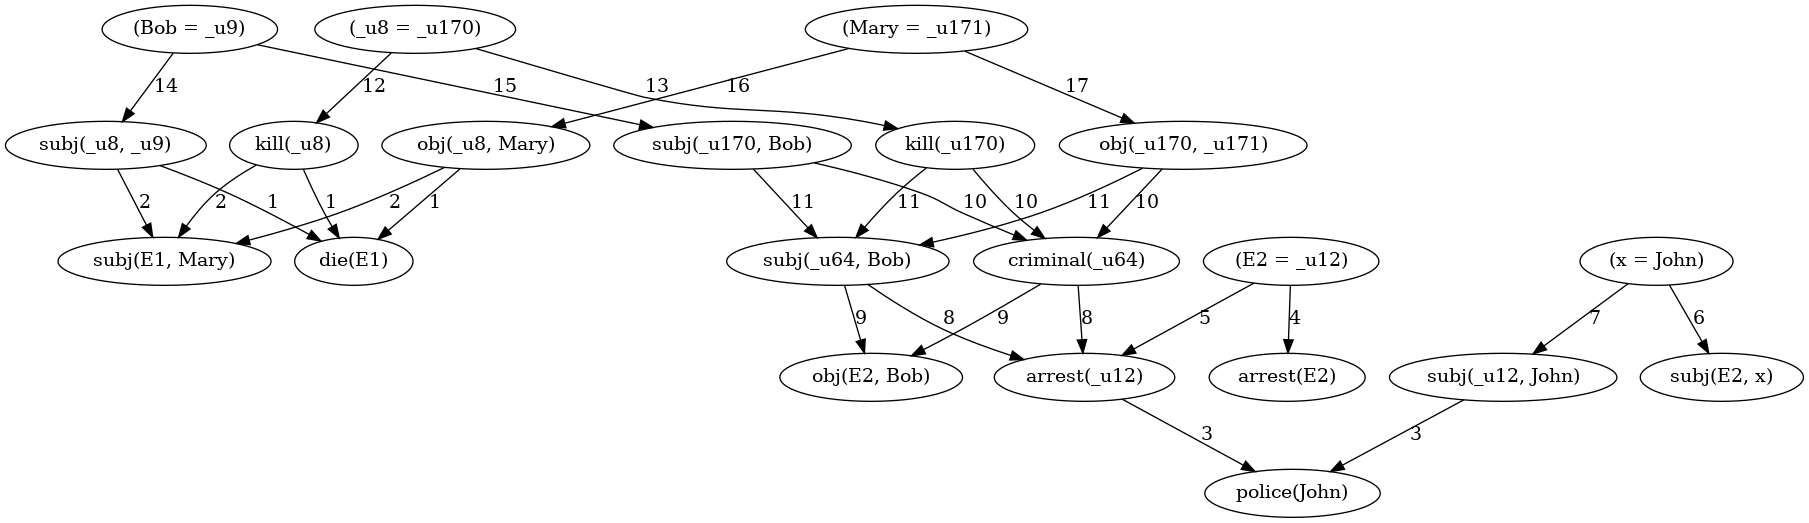
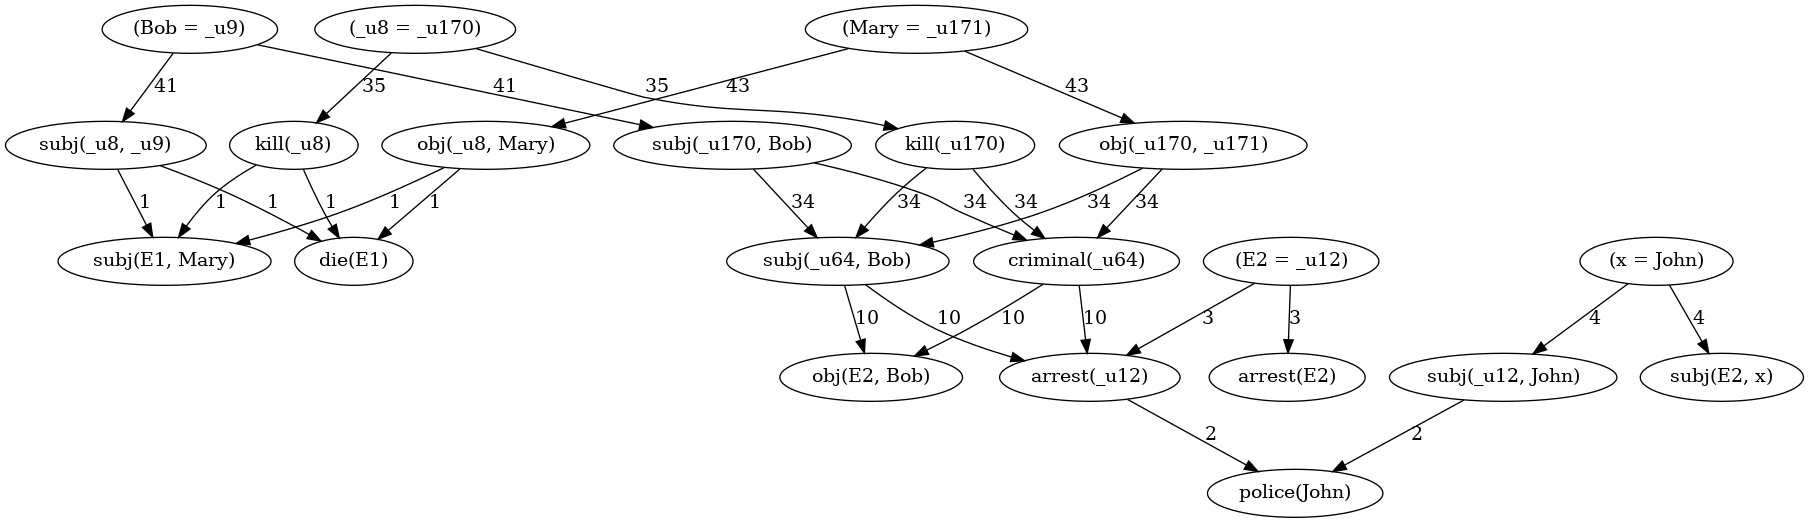
update

diff --git a/pydavid/pydavid.py b/pydavid/pydavid.py
@@ -161,7 +161,7 @@ class OpenDavid:
         """Builds a proof-graph from an output of Open-David.
 
         If there are many nodes in the tail of a hyperarc,
-        a hyperarc is added per node.
+        a hyperarc is added per node but with the same label.
         
         Args:
             json_str: An output of Open-David in json format.
@@ -194,7 +194,7 @@ class OpenDavid:
         for item in solution["edges"]:
             head = item["head"]
             tail = item["tail"]
-            # If there many nodes in tail, add a hyperarc per node.
+            # Add a hyperarc per node but with the same label.
             for v in vertices_dict[tail]:
-                g.add_hyperarc(vertices_dict[head], v)
+                g.add_hyperarc(vertices_dict[head], v, label=str(item["index"]))
         return g 
